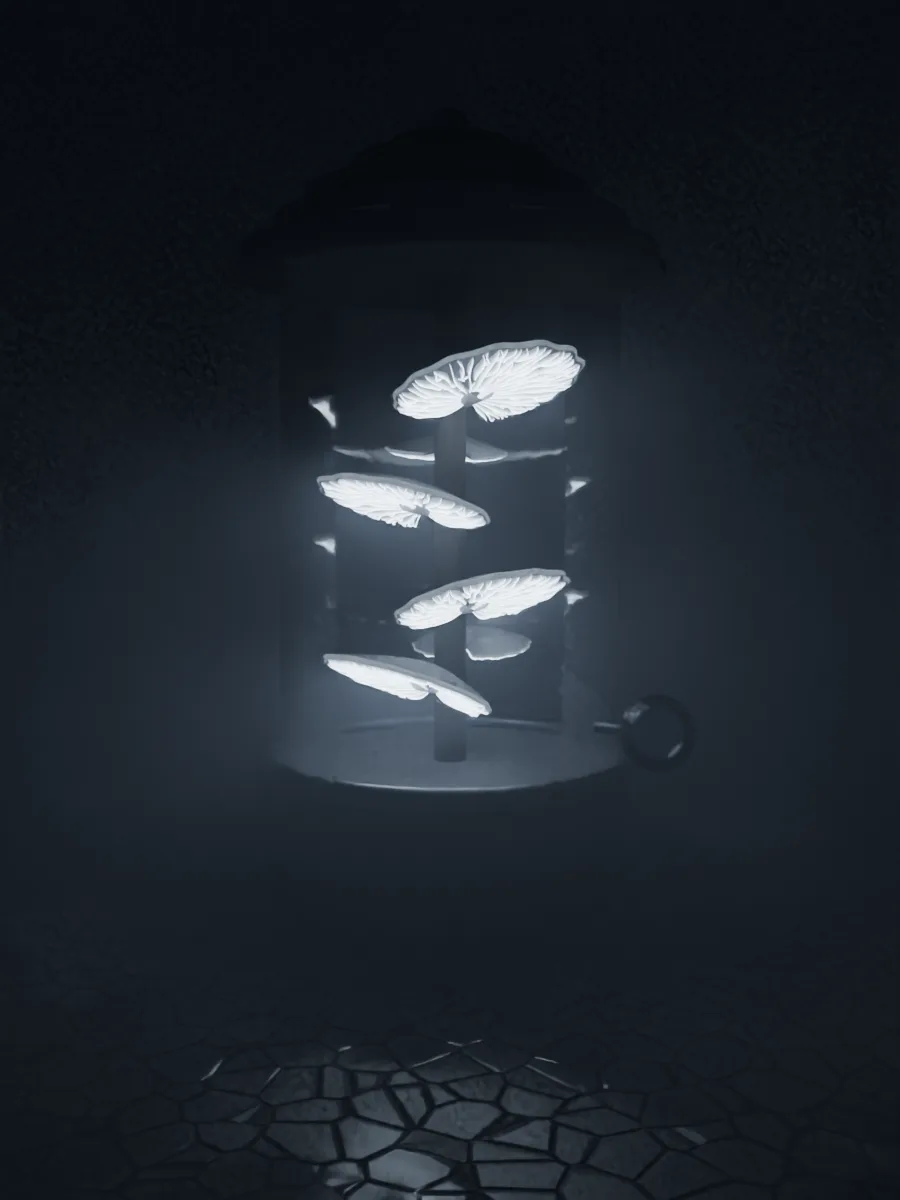
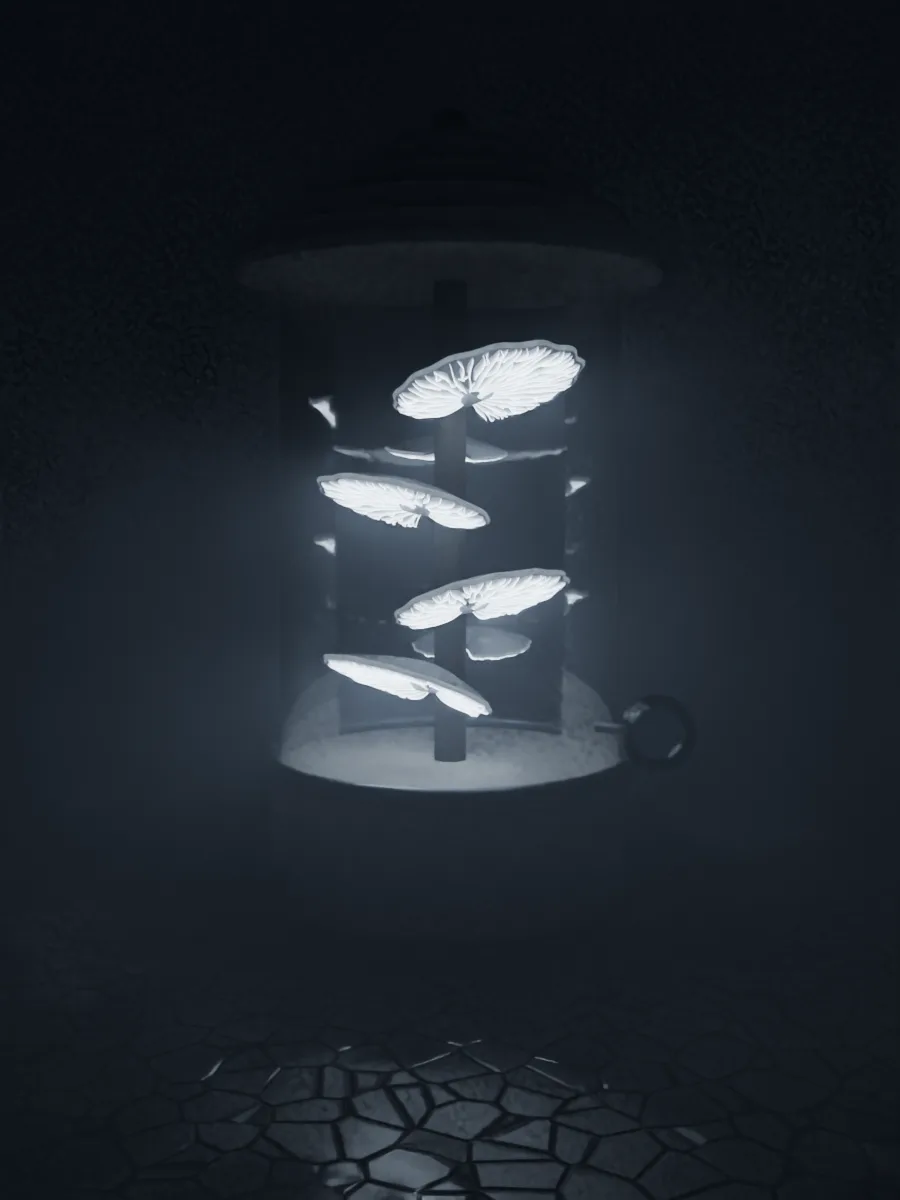
labs: alt-reality orthogonal - a pale glaze on the hood and plinth, lit by the culture; storage-off words fit the page
The ceramic's colour becomes a parameter (instrument.ceramic_rgb, an rgb in
the schema) and a pale bone glaze replaces the dark one, with no new light:
the culture's glow now falls on the hood's brim and the plinth top. One
render, 212.9 s, 20,614 bytes. Measured: hood p90 0.083 to 0.114, plinth p50
0.142 to 0.153; the culture's top percent stays 0.94 against 0.28 outside
the column. The plinth's sides still sink into the fog: only the sky lights
them.

The storage-off words said "your world", and on this page the visitor makes
no world yet. They now say "your answers", and that a link to a step still
opens it, which holds with storage refused.

Tests 56,582 passed; drive 74/74 at 1440 and 69/69 at 390.

Claude-Session: https://claude.ai/code/session_01YWJoh8GXFpkHx1HUfJpRYC

Changed region(s): [[0.3111, 0.5858, 0.6844, 0.6783]]

diff --git a/labs/assets/js/orthogonal/config.js b/labs/assets/js/orthogonal/config.js
@@ -102,6 +102,6 @@ export const EXERCISE = Object.freeze({
 
 /* What the plate says when the browser keeps nothing: the bindings' storage-off diagnosis, verbatim from the lab's plan
    (bindings.known_setup_failures, id storage-off). */
-export const STORAGE_OFF = 'Your browser is not letting this page keep anything, so your world lasts until you close it. A link still shares it.';
+export const STORAGE_OFF = 'Your browser is not letting this page keep anything, so your answers last until you close it. A link to a step still opens that step.';
 
 export const EVENTS = Object.freeze({ node: 'alt-reality.node', order: 'alt-reality.order' });

diff --git a/labs/assets/data/orthogonal/render_artifact.py b/labs/assets/data/orthogonal/render_artifact.py
@@ -575,7 +575,7 @@ def build_shelf_culture_lamp(P: dict, seed: int):
         return m
 
     street = street_mat()
-    ceramic = principled("ceramic", (0.09, 0.095, 0.105), rough=0.6)   # a dark glazed ceramic
+    ceramic = principled("ceramic", tuple(I["ceramic_rgb"]), rough=0.6)   # a pale bone glaze, lit only by the culture and the sky
     metal = principled("metal", (0.16, 0.17, 0.19), rough=0.35, metal=1.0)
     wood = principled("wood", (0.05, 0.045, 0.04), rough=0.8)
     glass = glass_mat()
